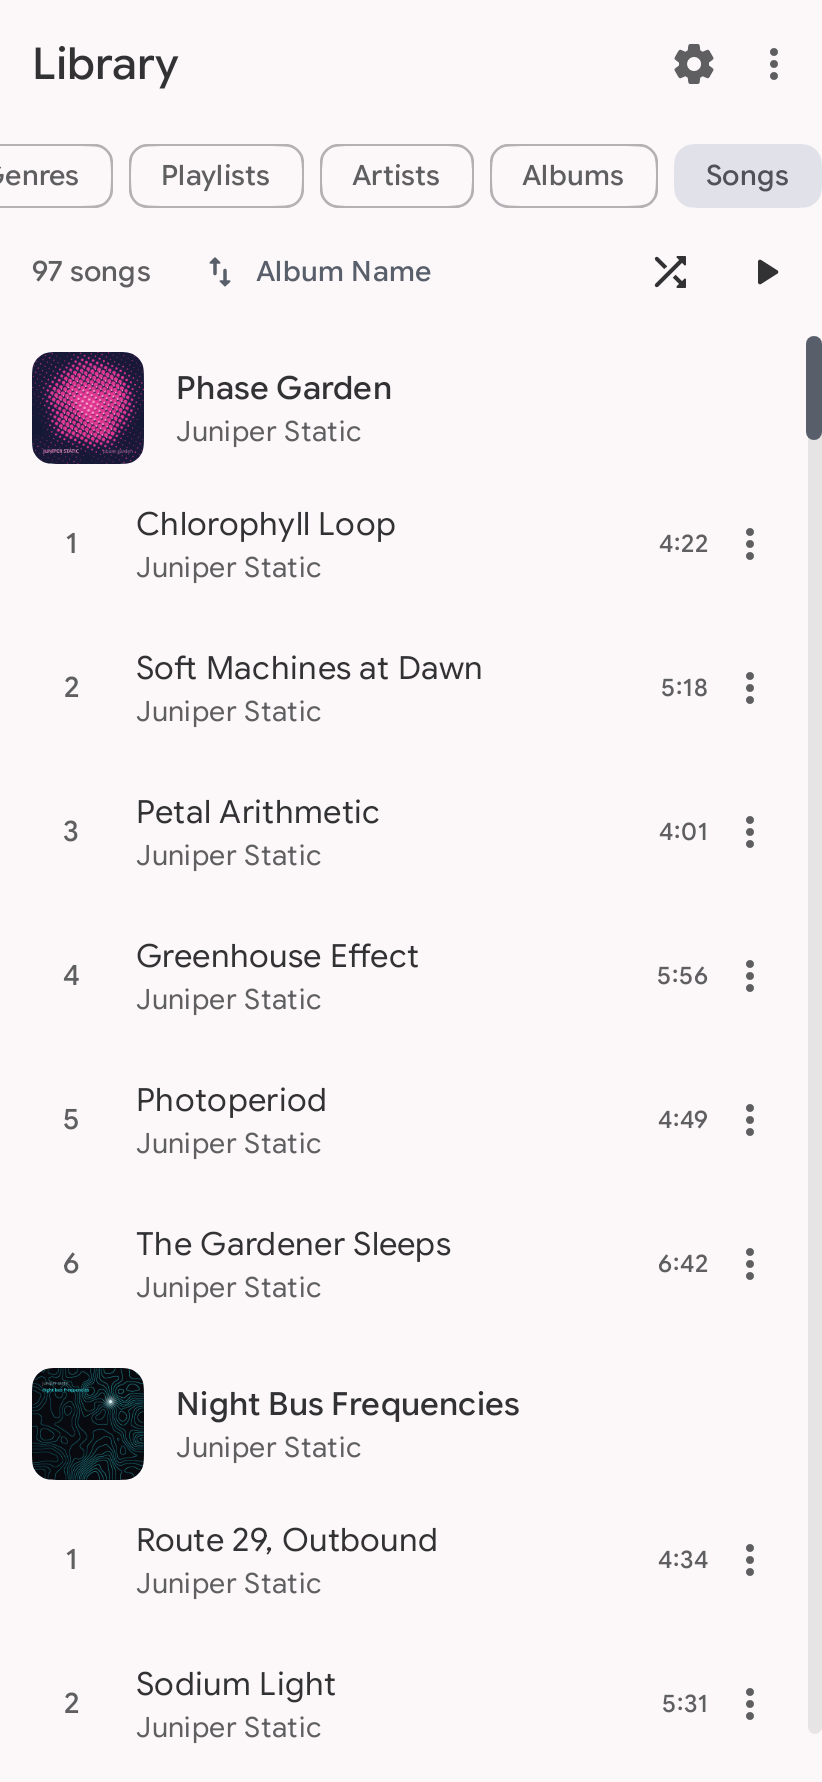
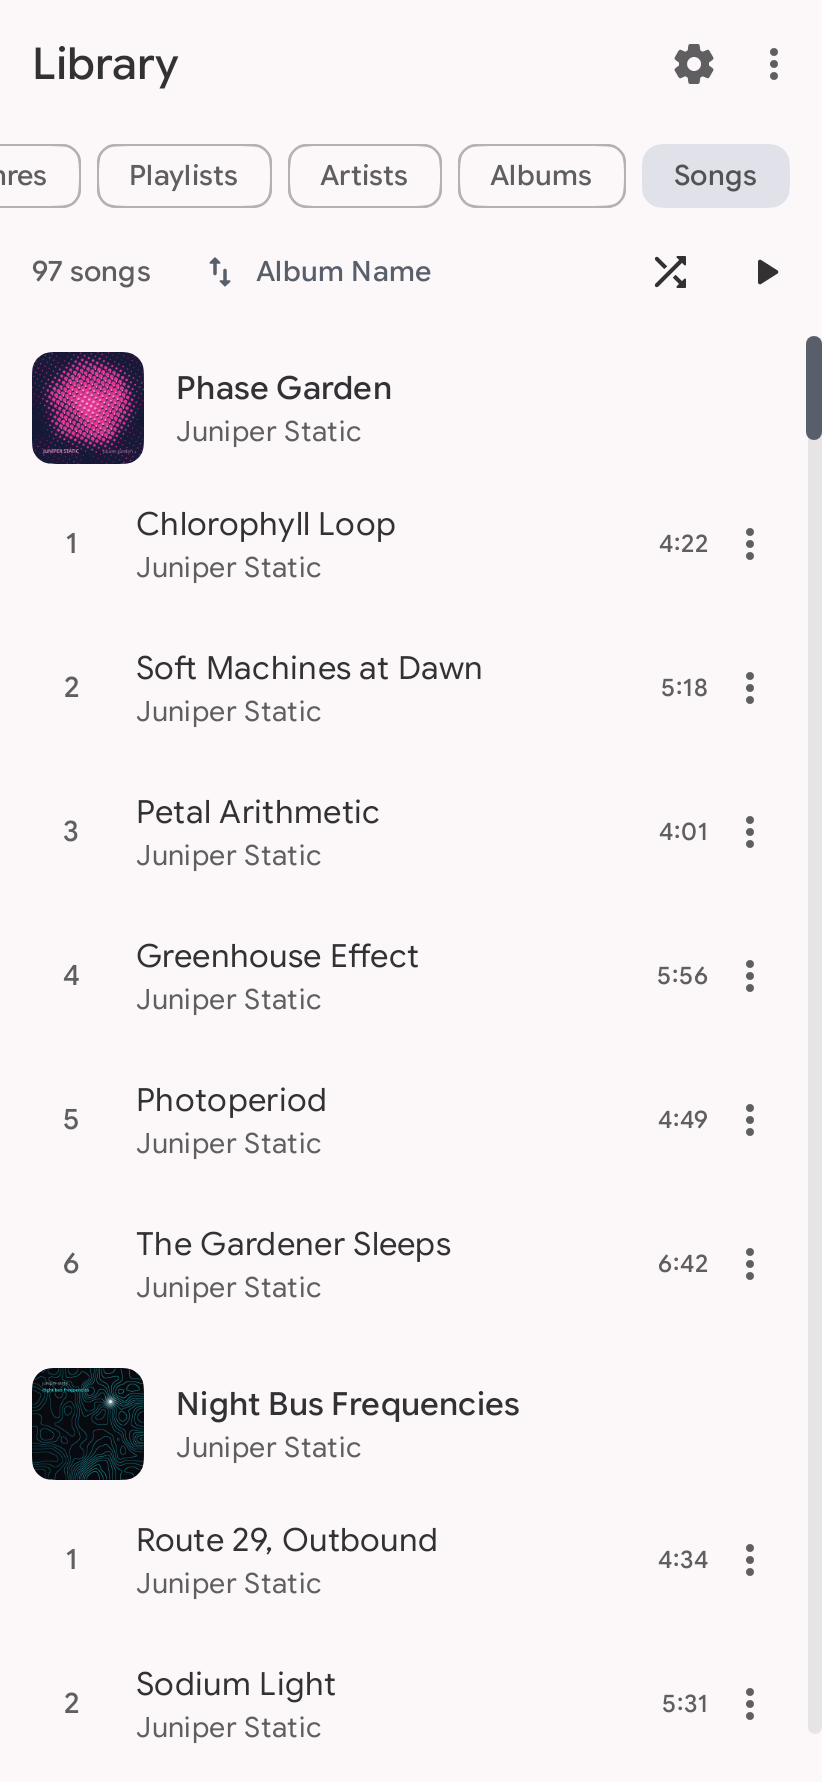
fix(app): the Library chip row scrolls its selected chip clear of the edge
Refs #669.

Changelog: none

Changed region(s): [[0.4866, 0.0617, 1.0, 0.1235], [0.0, 0.0926, 0.4562, 0.1235]]

diff --git a/android/app/src/main/java/com/simplecityapps/shuttle/ui/screens/library/LibraryScreen.kt b/android/app/src/main/java/com/simplecityapps/shuttle/ui/screens/library/LibraryScreen.kt
@@ -304,15 +304,20 @@ private fun LibrarySectionChips(
     val starts = remember(tabs) { IntArray(tabs.size) { -1 } }
     val ends = remember(tabs) { IntArray(tabs.size) { -1 } }
     var viewportWidth by remember { mutableIntStateOf(0) }
+    var placed by remember { mutableStateOf(false) }
     LaunchedEffect(tabs, selectedIndex, viewportWidth) {
         // After a frame, so the chips are laid out when the screen opens on a section past the row's edge.
         withFrameNanos {}
         val start = starts.getOrNull(selectedIndex)?.takeIf { it >= 0 } ?: return@LaunchedEffect
         val end = ends[selectedIndex]
-        when {
-            start - margin < scrollState.value -> scrollState.animateScrollTo(start - margin)
-            end + margin > scrollState.value + viewportWidth -> scrollState.animateScrollTo(end + margin - viewportWidth)
+        val target = when {
+            start - margin < scrollState.value -> start - margin
+            end + margin > scrollState.value + viewportWidth -> end + margin - viewportWidth
+            else -> null
         }
+        // The first placement snaps, so the row opens on the selected chip rather than sliding to it.
+        if (target != null) if (placed) scrollState.animateScrollTo(target) else scrollState.scrollTo(target)
+        if (viewportWidth > 0) placed = true
     }
     Row(
         horizontalArrangement = Arrangement.spacedBy(8.dp),
@@ -329,7 +334,8 @@ private fun LibrarySectionChips(
                 selected = index == selectedIndex,
                 onClick = { onSelect(index) },
                 modifier = Modifier.onGloballyPositioned {
-                    starts[index] = it.positionInParent().x.roundToInt()
+                    // Relative to the row's content box, which the padding sits outside of.
+                    starts[index] = margin + it.positionInParent().x.roundToInt()
                     ends[index] = starts[index] + it.size.width
                 },
             )
